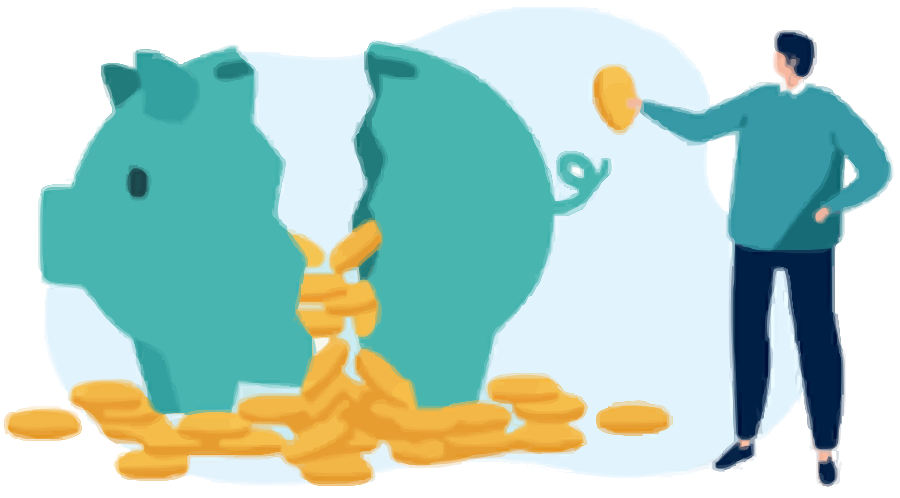
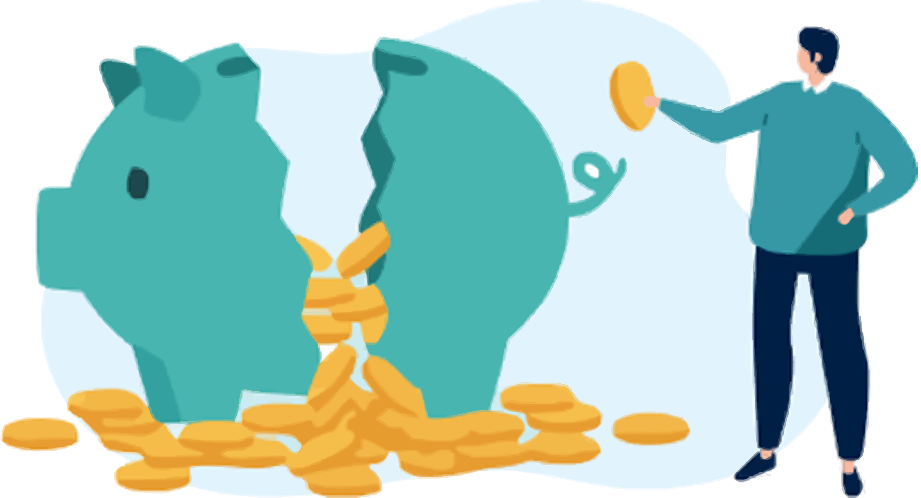
Use h's illustration artwork on the carousel
Swaps the illustrations cropped from screenshots for the artwork h
supplied, traced to vectors and exported at 3x so they stay crisp on
high-resolution screens. Each keeps its approved on-card size.

Claude-Session: https://claude.ai/code/session_01Mkx68UDLVYdWbFhBhzpstn

diff --git a/src/app/(onboarding)/stages-onboarding/_components/onboarding-paths.ts b/src/app/(onboarding)/stages-onboarding/_components/onboarding-paths.ts
@@ -28,9 +28,15 @@ export type RetirementPath = {
   /** Copy as it appears on the carousel slide (the mockups word a few differently). */
   carouselTitle: string;
   carouselDescription: string;
-  /** `displayWidth` evens out how big each illustration looks: the crops
-   *  differ in shape, so each is scaled to roughly the same area. */
-  image: { src: string; width: number; height: number; displayWidth: number };
+  /** The on-card size h approved for each illustration. The artwork is
+   *  fitted inside it without stretching. */
+  image: {
+    src: string;
+    width: number;
+    height: number;
+    displayWidth: number;
+    displayHeight: number;
+  };
 };
 
 export const retirementPaths: RetirementPath[] = [
@@ -42,9 +48,10 @@ export const retirementPaths: RetirementPath[] = [
     carouselDescription: 'See if you’re on track for your retirement goals.',
     image: {
       src: '/stages-onboarding/planning-ahead.png',
-      width: 726,
+      width: 741,
       height: 624,
-      displayWidth: 242
+      displayWidth: 242,
+      displayHeight: 208
     }
   },
   {
@@ -55,9 +62,10 @@ export const retirementPaths: RetirementPath[] = [
     carouselDescription: 'Get a clear picture of your current savings.',
     image: {
       src: '/stages-onboarding/already-retired.png',
-      width: 900,
+      width: 921,
       height: 498,
-      displayWidth: 300
+      displayWidth: 300,
+      displayHeight: 166
     }
   },
   {
@@ -68,9 +76,10 @@ export const retirementPaths: RetirementPath[] = [
     carouselDescription: 'Sign in to view and manage your accounts.',
     image: {
       src: '/stages-onboarding/existing-customer.png',
-      width: 699,
+      width: 717,
       height: 531,
-      displayWidth: 233
+      displayWidth: 233,
+      displayHeight: 177
     }
   },
   {
@@ -81,9 +90,10 @@ export const retirementPaths: RetirementPath[] = [
     carouselDescription: 'Buy life insurance or open an investment account.',
     image: {
       src: '/stages-onboarding/open-an-account.png',
-      width: 852,
+      width: 867,
       height: 531,
-      displayWidth: 284
+      displayWidth: 284,
+      displayHeight: 177
     }
   }
 ];

diff --git a/src/app/(onboarding)/stages-onboarding/_components/path-carousel.tsx b/src/app/(onboarding)/stages-onboarding/_components/path-carousel.tsx
@@ -104,8 +104,8 @@ export function PathCarousel() {
                     height={path.image.height}
                     unoptimized
                     draggable={false}
-                    style={{ width: path.image.displayWidth }}
-                    className='h-auto max-w-full select-none'
+                    style={{ width: path.image.displayWidth, height: path.image.displayHeight }}
+                    className='max-w-full object-contain select-none'
                   />
                 </div>
                 <h2 className='mt-5 font-[family-name:var(--font-stages-display)] text-[24px] leading-tight font-bold sm:text-[28px]'>
